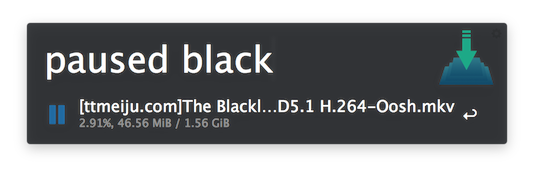
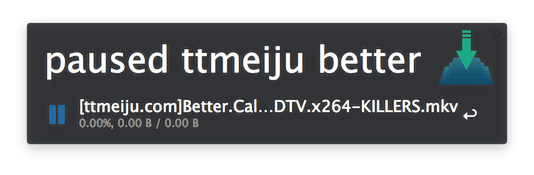
v1.3 changelog: 1. you can now use multiple keywords to filter by task name, even with status filter simultaneosly 2. use directory name for those tasks that do not have a task name (this mostly happens when metadata from Magnet links are not complete) 3. now works better with the Xunlei Lixian Expo

Changed region(s): [[0.1498, 0.5714, 0.8689, 0.7429], [0.3296, 0.2571, 0.5693, 0.4571], [0.5993, 0.2571, 0.809, 0.4286]]

diff --git a/src/aria.py b/src/aria.py
@@ -46,13 +46,12 @@ def time_fmt(seconds):
     return time
 
 
-def apply_filter(tasks, filter):
-    if filter:
-        filtered_tasks = wf.filter(filter, tasks,
-                lambda task: get_task_name(task), min_score=20)
-    else:
-        filtered_tasks = tasks
-    return filtered_tasks
+def apply_filter(tasks, filters):
+    if filters:
+        for filter in filters:
+            tasks = wf.filter(filter, tasks,
+                    lambda task: get_task_name(task), min_score=20)
+    return tasks
 
 
 def kill_notifier():
@@ -65,23 +64,29 @@ def kill_notifier():
 def get_task_name(task):
     gid = task['gid']
     bt = server.tellStatus(secret, gid, ['bittorrent'])
+    path = server.getFiles(secret, gid)[0]['path']
     if bt:
+        file_num = len(server.getFiles(secret, gid))
         if 'info' in bt:
             bt_name = bt['bittorrent']['info']['name']
-            file_num = len(server.getFiles(secret, gid))
-            name = '{bt_name} (BT: {file_num} files)'.format(bt_name=bt_name, file_num=file_num)
         else:
-            name = 'Getting metadata from Magnet link...'
+            bt_name = os.path.basename(os.path.dirname(path))
+        if not bt_name:
+            bt_name = 'Task name not obtained yet'
+        name = '{bt_name} (BT: {file_num} files)'.format(bt_name=bt_name, file_num=file_num)
     else:
-        path = server.getFiles(secret, gid)[0]['path']
         name = os.path.basename(path)
+        if not name:
+            name = 'Task name not obtained yet'
     return name
 
 
-def no_result_notify(status, filter):
+def no_result_notify(status, filters):
     info = 'No ' + status + ' download'
-    if filter:
-        info += u' with \'{filter}\''.format(filter=filter)
+    if filters:
+        info += ' with '
+        for filter in filters:
+            info += '\'' + filter + '\' '
     wf.add_item(info)
 
 
@@ -96,57 +101,57 @@ def get_modifier_subs(active=False, done=False, info=''):
     return subs
 
 
-def get_tasks(command, status, filter):
+def get_tasks(command, status, filters):
     if status == 'active':
-        if not get_active_tasks(command, filter):
-            no_result_notify(status, filter)
+        if not get_active_tasks(command, filters):
+            no_result_notify(status, filters)
     elif status == 'pending':
-        if not get_pending_tasks(command, filter):
-            no_result_notify(status, filter)
+        if not get_pending_tasks(command, filters):
+            no_result_notify(status, filters)
     elif status == 'paused':
-        if not get_paused_tasks(command, filter):
-            no_result_notify(status, filter)
+        if not get_paused_tasks(command, filters):
+            no_result_notify(status, filters)
     elif status == 'done':
-        if not get_completed_tasks(command, filter):
-            no_result_notify(status, filter)
+        if not get_completed_tasks(command, filters):
+            no_result_notify(status, filters)
     elif status == 'error':
-        if not get_error_tasks(command, filter):
-            no_result_notify(status, filter)
+        if not get_error_tasks(command, filters):
+            no_result_notify(status, filters)
     elif status == 'removed':
-        if not get_removed_tasks(command, filter):
-            no_result_notify(status, filter)
+        if not get_removed_tasks(command, filters):
+            no_result_notify(status, filters)
     elif status == 'waiting':
-        a = get_pending_tasks(command, filter)
-        b = get_paused_tasks(command, filter)
+        a = get_pending_tasks(command, filters)
+        b = get_paused_tasks(command, filters)
         if not (a or b):
-            no_result_notify(status, filter)
+            no_result_notify(status, filters)
     elif status == 'incomplete':
-        a = get_paused_tasks(command, filter)
-        b = get_error_tasks(command, filter)
-        c = get_removed_tasks(command, filter)
+        a = get_paused_tasks(command, filters)
+        b = get_error_tasks(command, filters)
+        c = get_removed_tasks(command, filters)
         if not (a or b or c):
-            no_result_notify(status, filter)
+            no_result_notify(status, filters)
     elif status == 'stopped':
-        a = get_completed_tasks(command, filter)
-        b = get_error_tasks(command, filter)
-        c = get_removed_tasks(command, filter)
+        a = get_completed_tasks(command, filters)
+        b = get_error_tasks(command, filters)
+        c = get_removed_tasks(command, filters)
         if not (a or b or c):
-            no_result_notify(status, filter)
+            no_result_notify(status, filters)
     elif status == 'all':
-        a = get_active_tasks(command, filter)
-        b = get_pending_tasks(command, filter)
-        c = get_paused_tasks(command, filter)
-        d = get_completed_tasks(command, filter)
-        e = get_error_tasks(command, filter)
-        f = get_removed_tasks(command, filter)
+        a = get_active_tasks(command, filters)
+        b = get_pending_tasks(command, filters)
+        c = get_paused_tasks(command, filters)
+        d = get_completed_tasks(command, filters)
+        e = get_error_tasks(command, filters)
+        f = get_removed_tasks(command, filters)
         if not (a or b or c or d or e or f):
-            no_result_notify('Aria2', filter)
+            no_result_notify('Aria2', filters)
 
 
-def get_active_tasks(command, filter):
+def get_active_tasks(command, filters):
     active = server.tellActive(secret, ['gid', 'completedLength', 'totalLength', 
         'downloadSpeed', 'uploadSpeed', 'connections'])
-    active = apply_filter(active, filter)
+    active = apply_filter(active, filters)
     if not active:
         return False
     for task in active:
@@ -177,11 +182,11 @@ def get_active_tasks(command, filter):
     return True
 
 
-def get_pending_tasks(command, filter):
+def get_pending_tasks(command, filters):
     waiting = server.tellWaiting(secret, -1, 10, ['gid', 'status', 'completedLength',
         'totalLength'])
     waiting = [task for task in waiting if task['status'] == 'waiting']
-    waiting = apply_filter(waiting, filter)
+    waiting = apply_filter(waiting, filters)
     if not waiting:
         return False
     for task in waiting:
@@ -203,11 +208,11 @@ def get_pending_tasks(command, filter):
     return True
 
 
-def get_paused_tasks(command, filter):
+def get_paused_tasks(command, filters):
     waiting = server.tellWaiting(secret, -1, 10, ['gid', 'status', 'completedLength',
         'totalLength'])
     paused = [task for task in waiting if task['status'] == 'paused']
-    paused = apply_filter(paused, filter)
+    paused = apply_filter(paused, filters)
     if not paused:
         return False
     for task in paused:
@@ -235,10 +240,10 @@ def get_stopped_tasks():
     return stopped
 
 
-def get_completed_tasks(command, filter):
+def get_completed_tasks(command, filters):
     stopped = get_stopped_tasks()
     completed = [task for task in stopped if task['status'] == 'complete']
-    completed = apply_filter(completed, filter)
+    completed = apply_filter(completed, filters)
     if not completed:
         return False
     for task in completed:
@@ -247,7 +252,7 @@ def get_completed_tasks(command, filter):
         info = '100%, File Size: {size}'.format(size=size_fmt(size))
         arg = '--' + command + ' ' + task['gid']
         subs = get_modifier_subs(done=True, info=info)
-        filepath = server.getFiles(secret, task['gid'])[0]['path']
+        filepath = server.getFiles(secret, task['gid'])[0]['path'].encode('utf-8')
         if not os.path.exists(filepath):
             info = '[deleted] ' + info
             wf.add_item(name, info, arg=arg, valid=True, 
@@ -258,10 +263,10 @@ def get_completed_tasks(command, filter):
     return True
 
 
-def get_error_tasks(command, filter):
+def get_error_tasks(command, filters):
     stopped = get_stopped_tasks()
     error = [task for task in stopped if task['status'] == 'error']
-    error = apply_filter(error, filter)
+    error = apply_filter(error, filters)
     if not error:
         return False
     for task in error:
@@ -284,10 +289,10 @@ def get_error_tasks(command, filter):
     return True
 
 
-def get_removed_tasks(command, filter):
+def get_removed_tasks(command, filters):
     stopped = get_stopped_tasks()
     removed = [task for task in stopped if task['status'] == 'removed']
-    removed = apply_filter(removed, filter)
+    removed = apply_filter(removed, filters)
     if not removed:
         return False
     for task in removed:
@@ -357,16 +362,19 @@ def main(wf):
         elif wf.args[0] in statuses:
             status = wf.args[0]
         else:
-            param = wf.args[0]
+            param = wf.args[0:]
     elif len(wf.args) > 1:
-        if wf.args[0] in commands:
+        if wf.args[0] in settings:
             command = wf.args[0]
-            param = wf.args[1]
+            param = wf.args[1]      #settings take one param only
+        elif wf.args[0] in actions:
+            command = wf.args[0]
+            param = wf.args[1:]     #actions can take multiple param to filter the result
         elif wf.args[0] in statuses:
             status = wf.args[0]
-            param = wf.args[1]
+            param = wf.args[1:]     #statuses can take multiple param to filter the result
         else:
-            param = wf.args[0]
+            param = wf.args[0:]
 
     if command not in settings:
         if command == 'pause':

diff --git a/src/notifier.py b/src/notifier.py
@@ -49,16 +49,20 @@ def get_notified():
 
 def get_task_name(gid):
     bt = server.tellStatus(secret, gid, ['bittorrent'])
+    path = server.getFiles(secret, gid)[0]['path']
     if bt:
+        file_num = len(server.getFiles(secret, gid))
         if 'info' in bt:
             bt_name = bt['bittorrent']['info']['name']
-            file_num = len(server.getFiles(gid))
-            name = '{bt_name} (BT: {file_num} files)'.format(bt_name=bt_name, file_num=file_num)
         else:
-            name = 'Getting metadata from Magnet link...'
+            bt_name = os.path.basename(os.path.dirname(path))
+        if not bt_name:
+            bt_name = 'Task name not obtained yet'
+        name = '{bt_name} (BT: {file_num} files)'.format(bt_name=bt_name, file_num=file_num)
     else:
-        path = server.getFiles(secret, gid)[0]['path']
         name = os.path.basename(path)
+        if not name:
+            name = 'Task name not obtained yet'
     return name
 
 

diff --git a/src/aria_actions.py b/src/aria_actions.py
@@ -22,14 +22,20 @@ def run_aria():
 
 def get_task_name(gid):
     bt = server.tellStatus(secret, gid, ['bittorrent'])
+    path = server.getFiles(secret, gid)[0]['path']
     if bt:
+        file_num = len(server.getFiles(secret, gid))
         if 'info' in bt:
-            name = bt['bittorrent']['info']['name']
+            bt_name = bt['bittorrent']['info']['name']
         else:
-            name = 'Getting metadata from Magnet link...'
+            bt_name = os.path.basename(os.path.dirname(path))
+        if not bt_name:
+            bt_name = 'Task name not obtained yet'
+        name = '{bt_name} (BT: {file_num} files)'.format(bt_name=bt_name, file_num=file_num)
     else:
-        path = server.getFiles(secret, gid)[0]['path']
         name = os.path.basename(path)
+        if not name:
+            name = 'Task name not obtained yet'
     return name
 
 

diff --git a/README.md b/README.md
@@ -12,7 +12,7 @@ The default hot key is `Command` + `Shift` + `A`, you can also type keyword `ari
 
 ###Filter by query
 
-1. Type task name to filter
+1. Type keywords to filter by task name
 2. Type `active` / `done` / `paused` / `pending` / `error` to filter by status
 3. You can filter by status and task name simultaneously:
 
